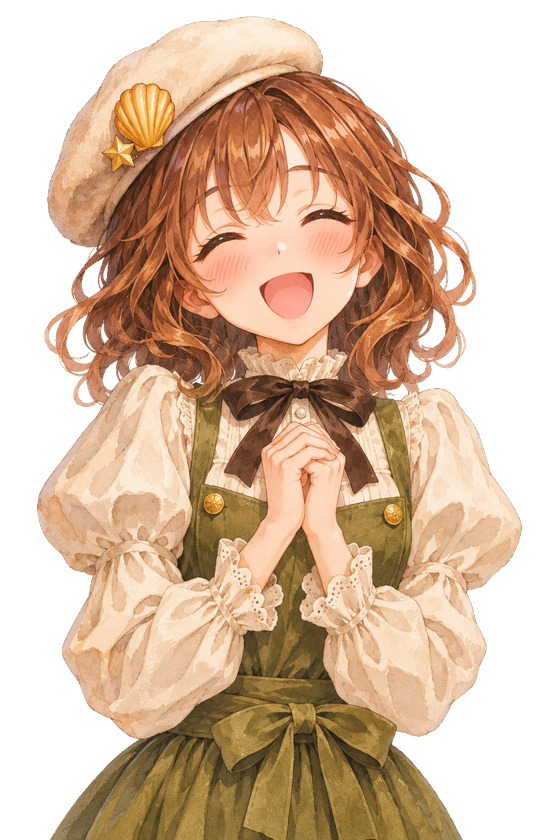
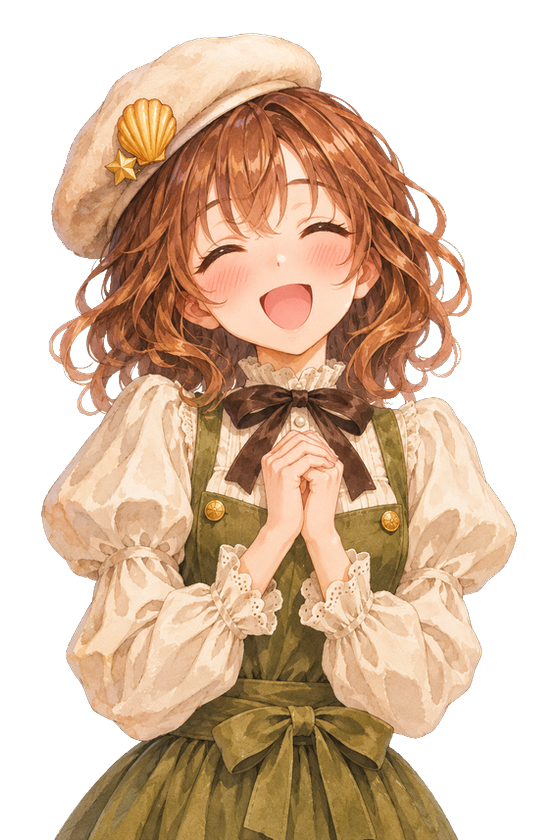
fix(patisserie-story): unify eye-line and head-to-body proportions across all 9 character portraits

diff --git a/games/patisserie-story/src/utils/live2d_portrait.js b/games/patisserie-story/src/utils/live2d_portrait.js
@@ -11,18 +11,18 @@ const EMO_META = {
 // 像素级对齐的三段式眨眼帧（半闭眼 + 全闭眼）
 const BLINK_FRAMES = {
   'assets/images/portraits/coco.png': {
-    half:   'assets/images/portraits/coco_blink_half.png',
-    closed: 'assets/images/portraits/coco_blink.png'
+    half:   'assets/images/portraits/coco_blink_half.png?v=20261127a',
+    closed: 'assets/images/portraits/coco_blink.png?v=20261127a'
   }
 };
 
 // 预加载全部眨眼帧与表情差分
 [
-  'assets/images/portraits/coco_blink_half.png',
-  'assets/images/portraits/coco_blink.png',
-  'assets/images/portraits/coco_happy.png',
-  'assets/images/portraits/coco_surprised.png',
-  'assets/images/portraits/coco_serious.png'
+  'assets/images/portraits/coco_blink_half.png?v=20261127a',
+  'assets/images/portraits/coco_blink.png?v=20261127a',
+  'assets/images/portraits/coco_happy.png?v=20261127a',
+  'assets/images/portraits/coco_surprised.png?v=20261127a',
+  'assets/images/portraits/coco_serious.png?v=20261127a'
 ].forEach(src => {
   const img = new Image();
   img.src = src;

diff --git a/games/patisserie-story/styles/story.css b/games/patisserie-story/styles/story.css
@@ -117,20 +117,20 @@
 .page-story .portrait-slot.is-speaking {
   opacity: 1;
   filter: brightness(1.03) drop-shadow(0 4px 9px rgba(42, 18, 6, 0.35));
-  transform: scale(1.04) translateY(-4px);
+  transform: scale(1.02) translateY(-2px);
   z-index: 6;
 }
 
 .page-story .portrait-slot.is-listening {
   opacity: 1;
-  filter: brightness(0.62) saturate(0.8);
-  transform: scale(0.94) translateY(4px);
+  filter: brightness(0.68) saturate(0.84);
+  transform: scale(0.98) translateY(2px);
   z-index: 3;
 }
 
-/* 可可立绘头身构图较近，在双人对话舞台缩小至 85% 贴底对齐，与婆婆及各位成年 NPC 头身比例自然和谐 */
+/* 全员立绘已完成 560×840 统一头身与眼线归一化，对话两侧 1:1 原比例对齐 */
 .page-story .slot-left .l2d-rig {
-  width: 85%;
+  width: 100%;
 }
 
 .page-story .character-bust {

diff --git a/games/patisserie-story/src/pages/story.js b/games/patisserie-story/src/pages/story.js
@@ -1,10 +1,10 @@
 // src/pages/story.js
 // RPG 视觉小说舞台（双人半身立绘 + S/A/B 支线剧情 + 食谱解锁奖励卡 + 自动衔接主线尾声漫画）
 
-import { resolveStoryContext, resolveDialogueFrame } from '../utils/story_engine.js?v=20261126z12';
+import { resolveStoryContext, resolveDialogueFrame } from '../utils/story_engine.js?v=20261127a';
 import { setStoryFlag, hasStoryFlag } from '../utils/store.js';
 import { CUTSCENES } from '../data/cutscenes.js';
-import { attachLive2DController, getEmotionMeta, buildEmotionFxHtml } from '../utils/live2d_portrait.js?v=20261126z15';
+import { attachLive2DController, getEmotionMeta, buildEmotionFxHtml } from '../utils/live2d_portrait.js?v=20261127a';
 
 export function mountStoryPage(root, params, { navigate, setPageTitle }) {
   const ctx = resolveStoryContext({

diff --git a/games/patisserie-story/index.html b/games/patisserie-story/index.html
@@ -9,7 +9,7 @@
   <link rel="stylesheet" href="styles/intro.css" />
   <link rel="stylesheet" href="styles/home.css?v=20261126q" />
   <link rel="stylesheet" href="styles/map.css" />
-  <link rel="stylesheet" href="styles/story.css?v=20261126z15" />
+  <link rel="stylesheet" href="styles/story.css?v=20261127a" />
   <link rel="stylesheet" href="styles/minigame.css?v=20261126z4" />
   <link rel="stylesheet" href="styles/shop.css?v=20261126z11" />
   <link rel="stylesheet" href="styles/jobs.css?v=20261126a" />
@@ -37,6 +37,6 @@
       </div>
     </div>
   </div>
-  <script type="module" src="src/main.js?v=20261126z16"></script>
+  <script type="module" src="src/main.js?v=20261127a"></script>
 </body>
 </html>

diff --git a/games/patisserie-story/src/main.js b/games/patisserie-story/src/main.js
@@ -5,7 +5,7 @@ import { mountStartPage } from './pages/start.js?v=20261126z15';
 import { mountIntroPage } from './pages/intro.js';
 import { mountHomePage } from './pages/home.js?v=20261126q';
 import { mountMapPage } from './pages/map.js';
-import { mountStoryPage } from './pages/story.js?v=20261126z15';
+import { mountStoryPage } from './pages/story.js?v=20261127a';
 import { mountMinigamePage } from './pages/minigame.js';
 import { mountShopPage } from './pages/shop.js?v=20261126z11';
 import { mountJobsPage } from './pages/jobs.js?v=20261126w';

diff --git a/games/patisserie-story/src/data/characters.js b/games/patisserie-story/src/data/characters.js
@@ -16,9 +16,9 @@ function getPortraitPath(charId, emotion) {
   const safeId = CHARACTERS[charId] ? charId : 'coco';
   const safeEmo = VALID_EMOTIONS.includes(emotion) ? emotion : 'normal';
   if (MULTI_EXPR_CHARS.has(safeId) && safeEmo !== 'normal') {
-    return `assets/images/portraits/${safeId}_${safeEmo}.png`;
+    return `assets/images/portraits/${safeId}_${safeEmo}.png?v=20261127a`;
   }
-  return `assets/images/portraits/${safeId}.png`;
+  return `assets/images/portraits/${safeId}.png?v=20261127a`;
 }
 
 const CHARACTERS = {

diff --git a/games/patisserie-story/src/utils/story_engine.js b/games/patisserie-story/src/utils/story_engine.js
@@ -3,7 +3,7 @@
 
 import { LEVELS } from '../data/levels.js';
 import { RECIPES } from '../data/recipes.js';
-import { CHARACTERS, getPortraitPath } from '../data/characters.js?v=20261126z12';
+import { CHARACTERS, getPortraitPath } from '../data/characters.js?v=20261127a';
 import { RANK_META, getOutroDialogue } from '../data/story_branches.js';
 
 function resolveStoryContext({ levelId, phase = 'intro', rank = 'A', score = 0 }) {
